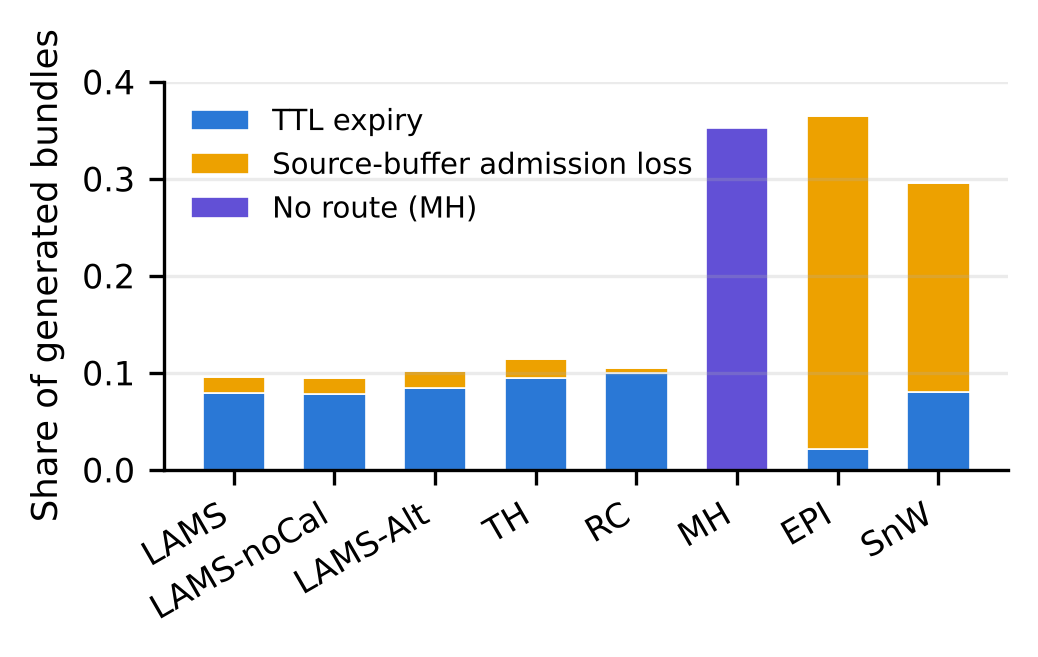
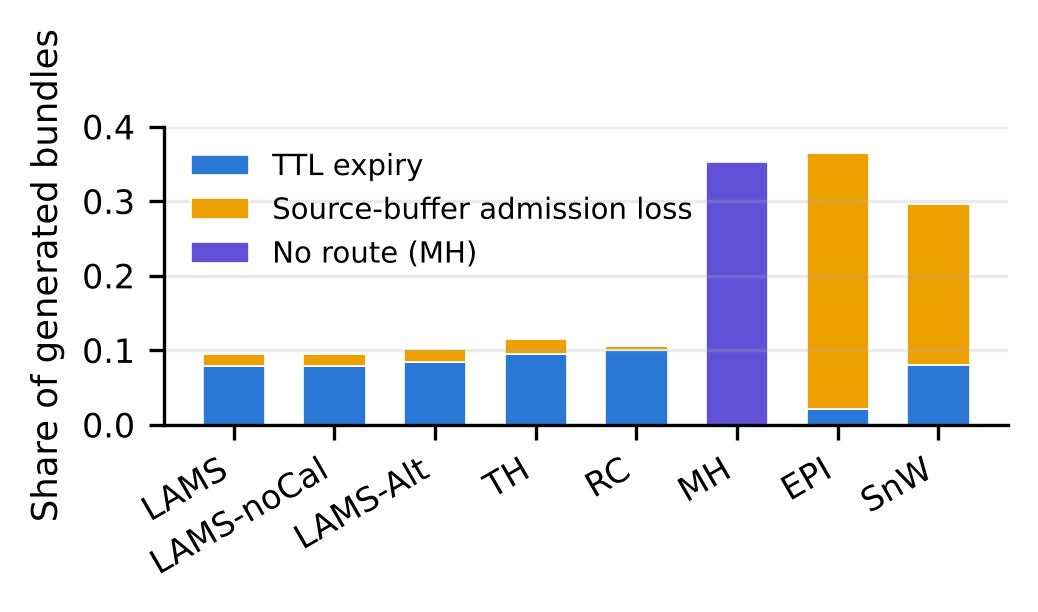
Update framework figure (column-width layout) and losses figure

diff --git a/analysis/analyze.py b/analysis/analyze.py
@@ -170,7 +170,7 @@ if "speed" in sweeps:
 # losses at the default point (N = 40 of the N sweep)
 if "N" in sweeps:
     S = sweeps["N"]; v = list(S["vals"]).index(40.0)
-    fig, ax = plt.subplots(figsize=(3.5, 2.1))
+    fig, ax = plt.subplots(figsize=(3.5, 1.8))
     x = np.arange(len(ORDER)); bottom = np.zeros(len(ORDER))
     for m, lab, c in [("dropTTL", "TTL expiry", "#2a78d6"), ("dropBuf", "Source-buffer admission loss", "#eda100"),
                       ("dropNoRoute", "No route (MH)", "#6250d6")]:
